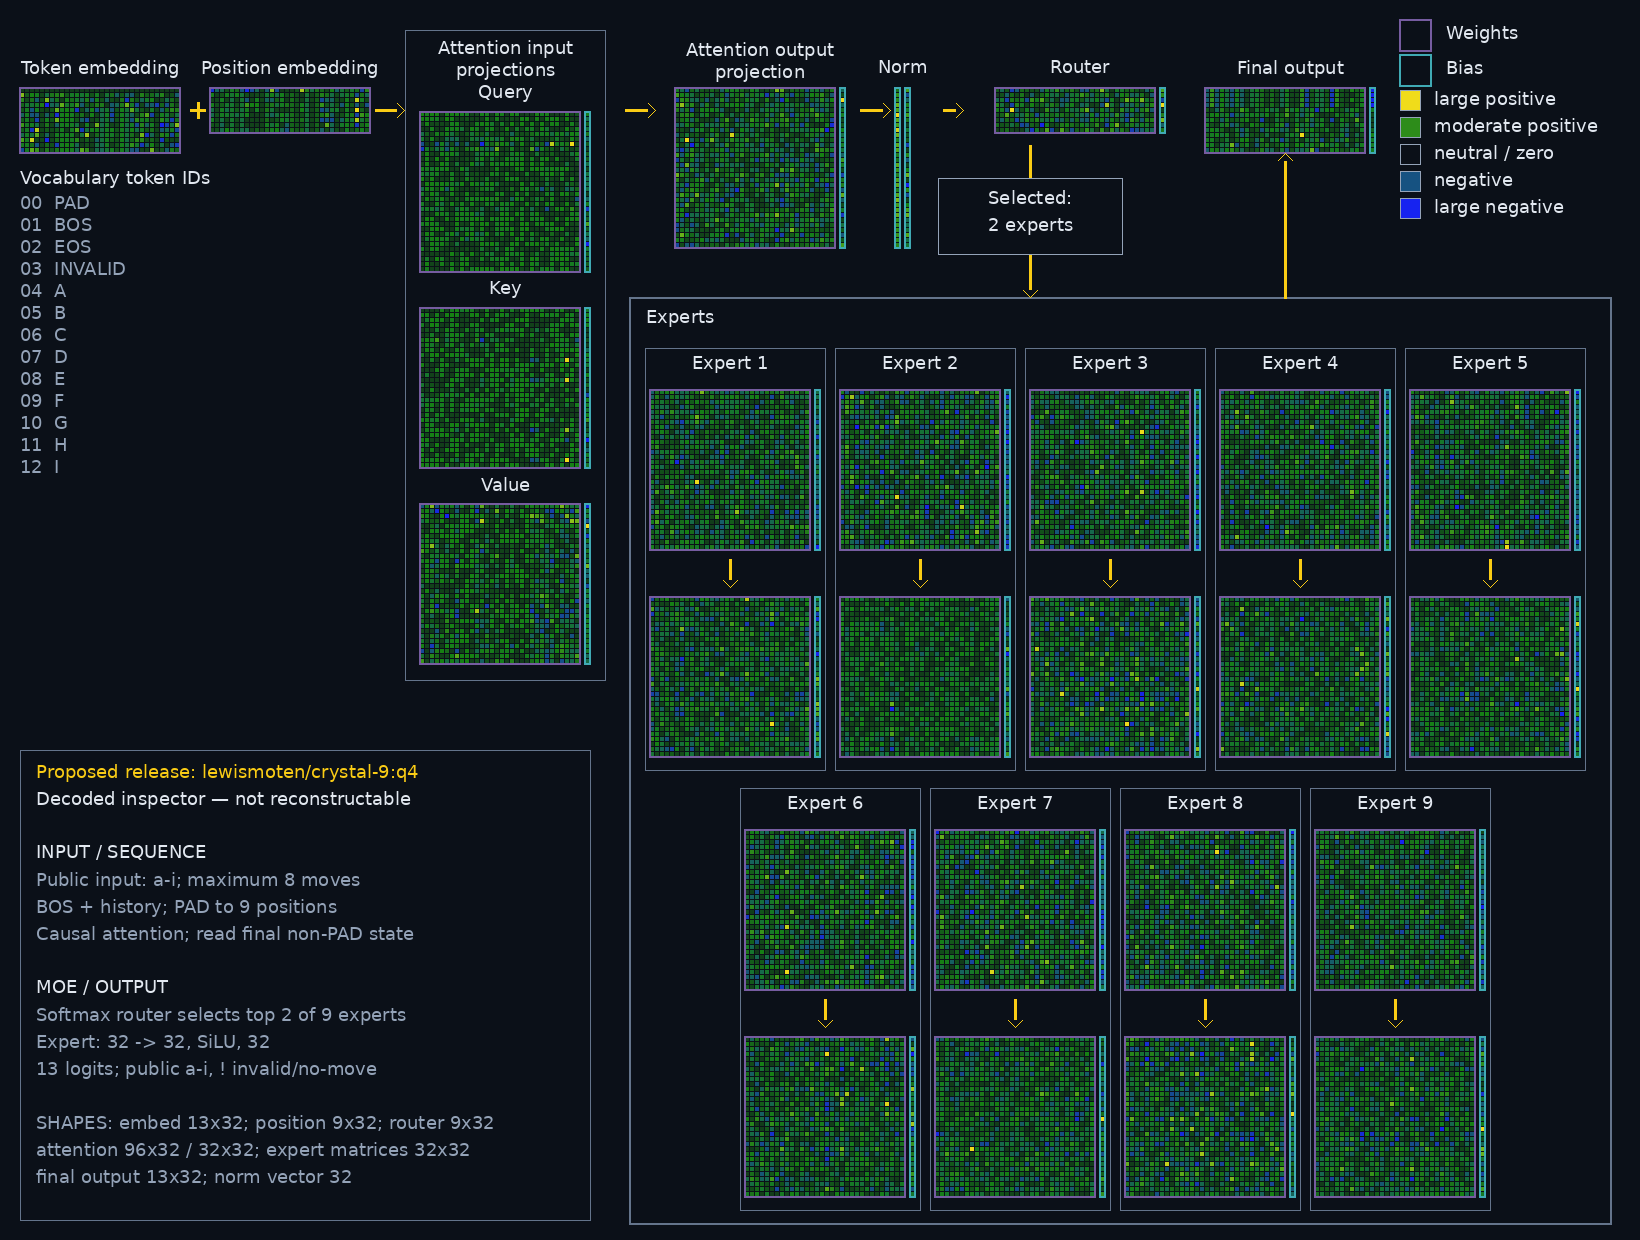
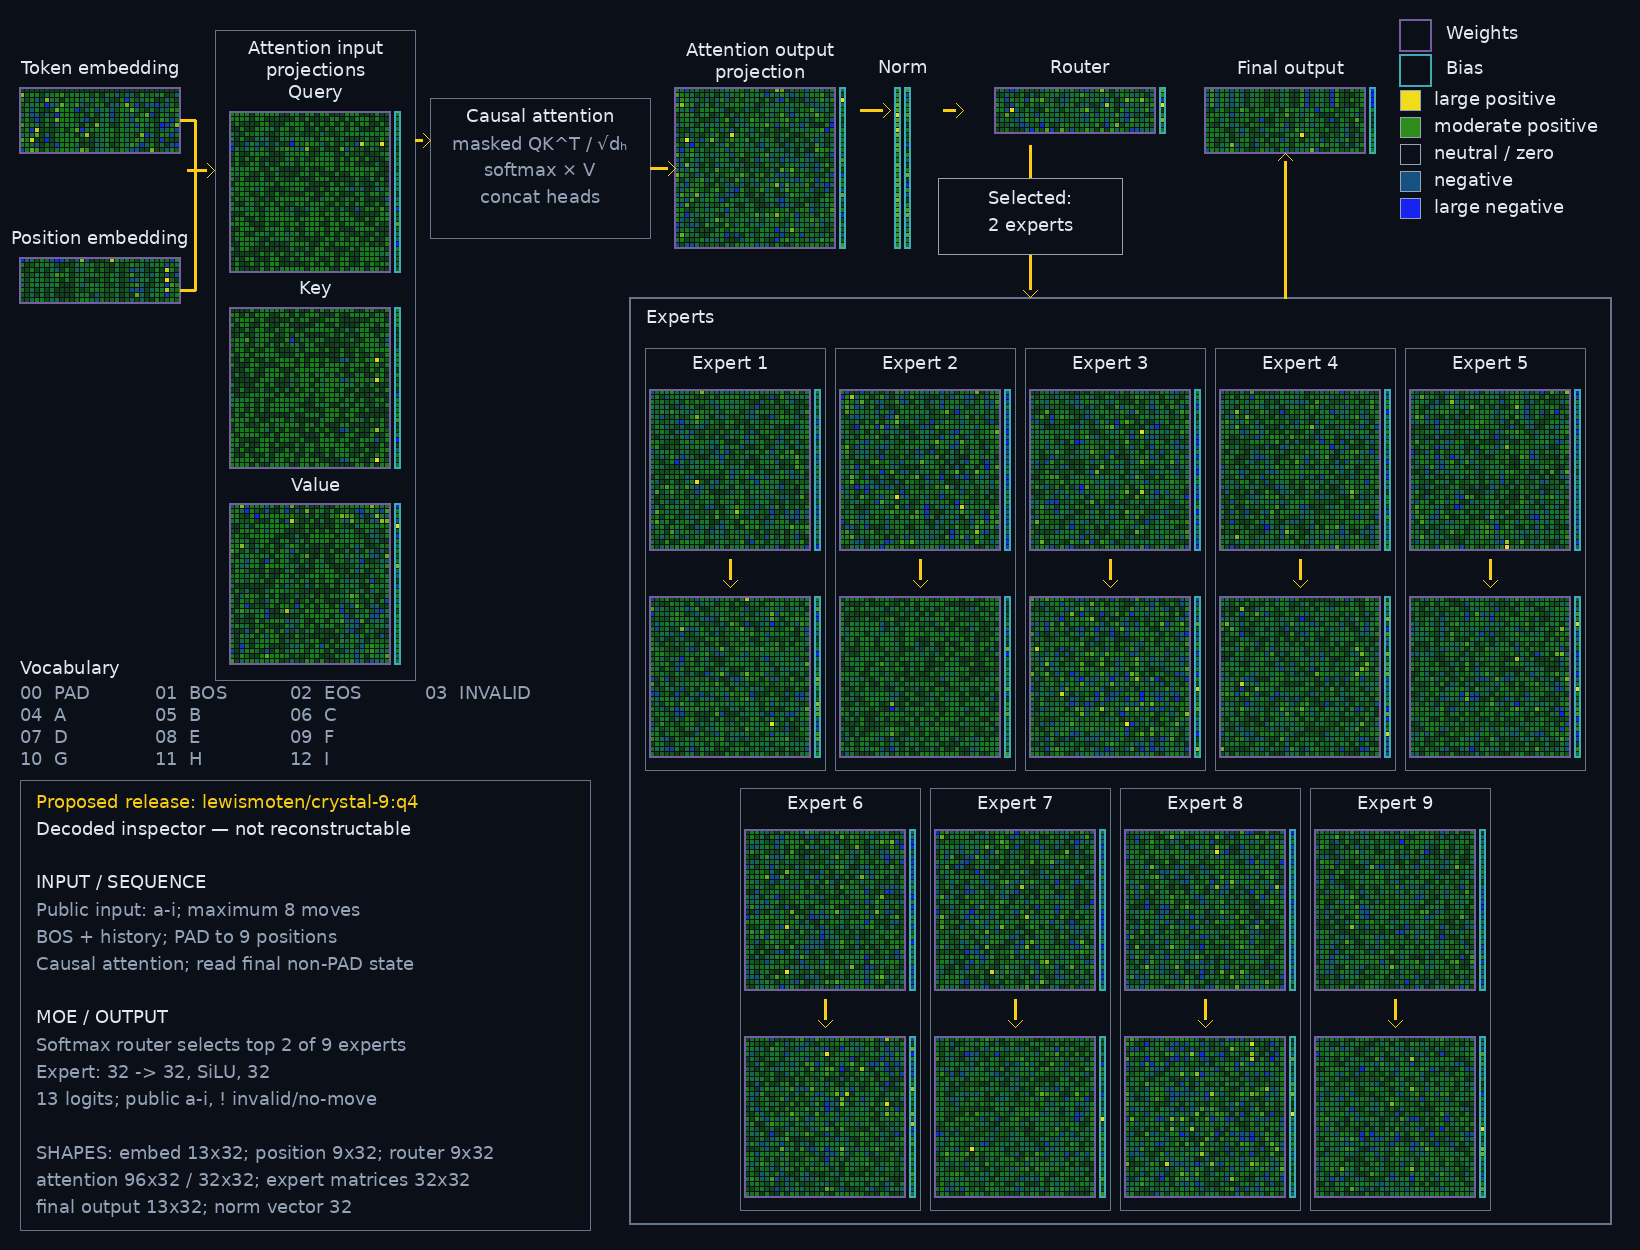
Refine Crystal-9 inspector attention and vocabulary layout

Changed region(s): [[0.0, 0.0306, 0.964, 0.9806], [0.5909, 0.0613, 0.8396, 0.1226], [0.8707, 0.0613, 0.964, 0.1839]]

diff --git a/tools/tensor_inspector.py b/tools/tensor_inspector.py
@@ -184,6 +184,15 @@ def _render_attention_input_projections(rgb: bytearray, width: int, state: dict[
         _render_tensor(rgb, width, bias, x + weight_width + _CELL, grid_y)
 
 
+def _render_causal_attention(rgb: bytearray, width: int, x: int, y: int) -> None:
+    """Render the actual masked multi-head Q/K/V calculation between projections."""
+    panel_width, panel_height = 220, 140
+    _rectangle(rgb, width, x, y, panel_width, panel_height, _EXPERT_BORDER, 1)
+    lines = (("Causal attention", _LABEL), ("masked QK^T / √dₕ", _MUTED), ("softmax × V", _MUTED), ("concat heads", _MUTED))
+    for index, (line, color) in enumerate(lines):
+        _centered_text(rgb, width, x + panel_width // 2, y + 10 + index * 27, line, color)
+
+
 def _render_single(rgb: bytearray, width: int, state: dict[str, torch.Tensor], name: str, label: str, x: int, y: int) -> tuple[int, int]:
     tensor_columns = _shape(state[name])[1]
     _centered_text(rgb, width, x + tensor_columns * _CELL // 2, y + 20, label, _LABEL)
@@ -192,15 +201,21 @@ def _render_single(rgb: bytearray, width: int, state: dict[str, torch.Tensor], n
 
 
 def _render_vocabulary(rgb: bytearray, width: int, x: int, y: int) -> None:
-    _text(rgb, width, x, y, "Vocabulary token IDs", _LABEL)
+    """Render token IDs in semantic rows: specials, then board rows A-C/D-F/G-I."""
+    _text(rgb, width, x, y, "Vocabulary", _LABEL)
+    entries = []
     for token_id, token in enumerate(_VOCABULARY):
         token_name = {"<pad>": "PAD", "<bos>": "BOS", "<eos>": "EOS", "!": "INVALID"}.get(token, token.upper())
-        _text(rgb, width, x, y + 26 + token_id * 22, f"{token_id:02d}  {token_name}", _MUTED)
+        entries.append(f"{token_id:02d}  {token_name}")
+    rows = (entries[:4], entries[4:7], entries[7:10], entries[10:13])
+    for row_index, row in enumerate(rows):
+        for column_index, entry in enumerate(row):
+            _text(rgb, width, x + column_index * 135, y + 26 + row_index * 22, entry, _MUTED)
 
 
 def _render_execution_contract(rgb: bytearray, width: int, x: int, y: int) -> None:
     """Render the runtime facts needed to interpret this derived view honestly."""
-    panel_width, panel_height = 570, 470
+    panel_width, panel_height = 570, 450
     _rectangle(rgb, width, x, y, panel_width, panel_height, _EXPERT_BORDER, 1)
     lines = (
         ("Proposed release: lewismoten/crystal-9:q4", _FLOW),
@@ -228,7 +243,7 @@ def _render_execution_contract(rgb: bytearray, width: int, x: int, y: int) -> No
 def render_checkpoint_inspector(source: Path) -> tuple[bytes, dict[str, object]]:
     """Create a derived, architecture-flow map; it is not a byte transport artifact."""
     state = _checkpoint_state(source)
-    width, height = 1640, 1240
+    width, height = 1640, 1250
     rgb = bytearray(b"\x0b\x10\x18" * (width * height))
     inventory = {
         name: {"shape": list(tensor.shape), "dtype": str(tensor.dtype).replace("torch.", ""),
@@ -236,24 +251,30 @@ def render_checkpoint_inspector(source: Path) -> tuple[bytes, dict[str, object]]
         for name, tensor in state.items()
     }
 
-    top_y, flow_y = 40, 110
+    top_y = 40
     _render_single(rgb, width, state, "embedding.weight", "Token embedding", 20, top_y)
-    _render_single(rgb, width, state, "position.weight", "Position embedding", 210, top_y)
-    _render_attention_input_projections(rgb, width, state, 420, 30)
+    _render_single(rgb, width, state, "position.weight", "Position embedding", 20, 210)
+    _render_attention_input_projections(rgb, width, state, 230, 30)
+    _render_causal_attention(rgb, width, 430, 98)
     _render_pair(rgb, width, state, "attention.out_proj.weight", "attention.out_proj.bias", "Attention output\nprojection", 675, top_y)
     _render_pair(rgb, width, state, "norm.weight", "norm.bias", "Norm", 895, top_y)
     _render_pair(rgb, width, state, "router.weight", "router.bias", "Router", 995, top_y)
     _render_pair(rgb, width, state, "output.weight", "output.bias", "Final output", 1205, top_y)
-    _render_vocabulary(rgb, width, 20, 170)
-    _render_execution_contract(rgb, width, 20, 750)
+    _render_vocabulary(rgb, width, 20, 660)
+    _render_execution_contract(rgb, width, 20, 780)
 
-    # Token and position embeddings are combined elementwise before attention.
-    _line(rgb, width, 190, flow_y, 205, flow_y)
-    _line(rgb, width, 198, flow_y - 8, 198, flow_y + 8)
-    _arrow(rgb, width, 375, flow_y, 404, flow_y)
-    _arrow(rgb, width, 625, flow_y, 655, flow_y)
-    _arrow(rgb, width, 860, flow_y, 890, flow_y)
-    _arrow(rgb, width, 943, flow_y, 963, flow_y)
+    # Token and position embeddings are combined elementwise before masked attention.
+    _line(rgb, width, 180, 120, 195, 120)
+    _line(rgb, width, 180, 290, 195, 290)
+    _line(rgb, width, 195, 120, 195, 162)
+    _line(rgb, width, 195, 178, 195, 290)
+    _line(rgb, width, 187, 170, 203, 170)
+    _line(rgb, width, 195, 162, 195, 178)
+    _arrow(rgb, width, 204, 170, 214, 170)
+    _arrow(rgb, width, 415, 140, 430, 140)
+    _arrow(rgb, width, 650, 168, 675, 168)
+    _arrow(rgb, width, 860, 110, 890, 110)
+    _arrow(rgb, width, 943, 110, 963, 110)
 
     # Begin below Output projection, then use a 5+4 grid so every expert can contain its full weight+bias pair.
     expert_y, expert_gap, expert_width = 340, 10, 180
@@ -300,7 +321,7 @@ def render_checkpoint_inspector(source: Path) -> tuple[bytes, dict[str, object]]
         _text(rgb, width, legend_x + 34, y + 1, label, _LABEL)
 
     metadata = {
-        "format": "crystal-9-tensor-inspector-v27", "source": source.name,
+        "format": "crystal-9-tensor-inspector-v28", "source": source.name,
         "source_sha256": hashlib.sha256(source.read_bytes()).hexdigest(), "tensor_count": len(state),
         "representation": "decoded inspector; not reconstructable",
         "proposed_deployment_tag": "lewismoten/crystal-9:q4",
@@ -312,19 +333,26 @@ def render_checkpoint_inspector(source: Path) -> tuple[bytes, dict[str, object]]
             "expert": "32 -> 32 SiLU -> 32",
             "public_output": "a-i; ! is invalid/no-move sentinel",
         },
-        "normalization": "per-tensor symmetric max-absolute", "layout": "architecture-flow-v27",
+        "normalization": "per-tensor symmetric max-absolute", "layout": "architecture-flow-v28",
         "legend_location": "top-right",
         "execution_contract_panel": {
             "location": "bottom-left",
-            "bounds": [20, 750, 570, 470],
+            "bounds": [20, 780, 570, 450],
             "header_lines": [
                 "Proposed release: lewismoten/crystal-9:q4",
                 "Decoded inspector — not reconstructable",
             ],
         },
         "top_row_layout": {
-            "attention_input_projection_x": 420,
-            "attention_input_projection_group_bounds": [405, 30, 200, 650],
+            "token_embedding": {"x": 20, "y": 40},
+            "position_embedding": {"x": 20, "y": 210},
+            "embedding_addition": {"center_x": 195, "center_y": 170},
+            "attention_input_projection_x": 230,
+            "attention_input_projection_group_bounds": [215, 30, 200, 650],
+            "causal_attention": {
+                "bounds": [430, 98, 220, 140],
+                "display_lines": ["Causal attention", "masked QK^T / √dₕ", "softmax × V", "concat heads"],
+            },
             "attention_output_projection_x": 675,
             "attention_output_projection_label": "Attention output projection",
             "attention_output_projection_display_lines": ["Attention output", "projection"],
@@ -332,8 +360,21 @@ def render_checkpoint_inspector(source: Path) -> tuple[bytes, dict[str, object]]
             "router_x": 995,
             "final_output_x": 1205,
             "final_output_return_x": 1285,
-            "post_position_arrow": {"start_x": 375, "end_x": 404},
-            "attention_input_to_output_arrow": {"start_x": 625, "end_x": 655},
+            "input_to_causal_attention_arrow": {"start_x": 415, "end_x": 430, "y": 140},
+            "causal_attention_to_output_arrow": {"start_x": 650, "end_x": 675, "y": 168},
+        },
+        "vocabulary_layout": {
+            "title": "Vocabulary",
+            "x": 20,
+            "y": 660,
+            "columns": 4,
+            "rows": [
+                ["00 PAD", "01 BOS", "02 EOS", "03 INVALID"],
+                ["04 A", "05 B", "06 C"],
+                ["07 D", "08 E", "09 F"],
+                ["10 G", "11 H", "12 I"],
+            ],
+            "near": "execution-contract panel",
         },
         "attention_input_projection": {
             "group_label": "Attention input projections", "packed_weight_shape": [96, 32],

diff --git a/tests/test_tensor_inspector.py b/tests/test_tensor_inspector.py
@@ -15,20 +15,28 @@ def test_checkpoint_inspector_renders_actual_tensor_inventory_as_png():
     assert metadata["tensors"]["attention.in_proj_weight"]["shape"] == [96, 32]
     assert metadata["tensors"]["experts.0.0.weight"]["shape"] == [32, 32]
     assert metadata["normalization"] == "per-tensor symmetric max-absolute"
-    assert metadata["layout"] == "architecture-flow-v27"
+    assert metadata["layout"] == "architecture-flow-v28"
     assert metadata["width"] == 1640
+    assert metadata["height"] == 1250
     assert metadata["legend_location"] == "top-right"
     assert metadata["execution_contract_panel"] == {
         "location": "bottom-left",
-        "bounds": [20, 750, 570, 470],
+        "bounds": [20, 780, 570, 450],
         "header_lines": [
             "Proposed release: lewismoten/crystal-9:q4",
             "Decoded inspector — not reconstructable",
         ],
     }
     assert metadata["top_row_layout"] == {
-        "attention_input_projection_x": 420,
-        "attention_input_projection_group_bounds": [405, 30, 200, 650],
+        "token_embedding": {"x": 20, "y": 40},
+        "position_embedding": {"x": 20, "y": 210},
+        "embedding_addition": {"center_x": 195, "center_y": 170},
+        "attention_input_projection_x": 230,
+        "attention_input_projection_group_bounds": [215, 30, 200, 650],
+        "causal_attention": {
+            "bounds": [430, 98, 220, 140],
+            "display_lines": ["Causal attention", "masked QK^T / √dₕ", "softmax × V", "concat heads"],
+        },
         "attention_output_projection_x": 675,
         "attention_output_projection_label": "Attention output projection",
         "attention_output_projection_display_lines": ["Attention output", "projection"],
@@ -36,8 +44,21 @@ def test_checkpoint_inspector_renders_actual_tensor_inventory_as_png():
         "router_x": 995,
         "final_output_x": 1205,
         "final_output_return_x": 1285,
-        "post_position_arrow": {"start_x": 375, "end_x": 404},
-        "attention_input_to_output_arrow": {"start_x": 625, "end_x": 655},
+        "input_to_causal_attention_arrow": {"start_x": 415, "end_x": 430, "y": 140},
+        "causal_attention_to_output_arrow": {"start_x": 650, "end_x": 675, "y": 168},
+    }
+    assert metadata["vocabulary_layout"] == {
+        "title": "Vocabulary",
+        "x": 20,
+        "y": 660,
+        "columns": 4,
+        "rows": [
+            ["00 PAD", "01 BOS", "02 EOS", "03 INVALID"],
+            ["04 A", "05 B", "06 C"],
+            ["07 D", "08 E", "09 F"],
+            ["10 G", "11 H", "12 I"],
+        ],
+        "near": "execution-contract panel",
     }
     assert metadata["attention_input_projection"] == {
         "group_label": "Attention input projections",

diff --git a/tools/export_tensor_inspectors.py b/tools/export_tensor_inspectors.py
@@ -31,7 +31,7 @@ def main() -> None:
             "tensor_count": metadata["tensor_count"], "width": metadata["width"], "height": metadata["height"],
             "normalization": metadata["normalization"], "derived": True,
         })
-    (OUTPUT.parent / "inspectors.json").write_text(json.dumps({"format": "crystal-9-tensor-inspector-v27", "inspectors": inspectors}, indent=2) + "\n")
+    (OUTPUT.parent / "inspectors.json").write_text(json.dumps({"format": "crystal-9-tensor-inspector-v28", "inspectors": inspectors}, indent=2) + "\n")
 
 
 if __name__ == "__main__":
